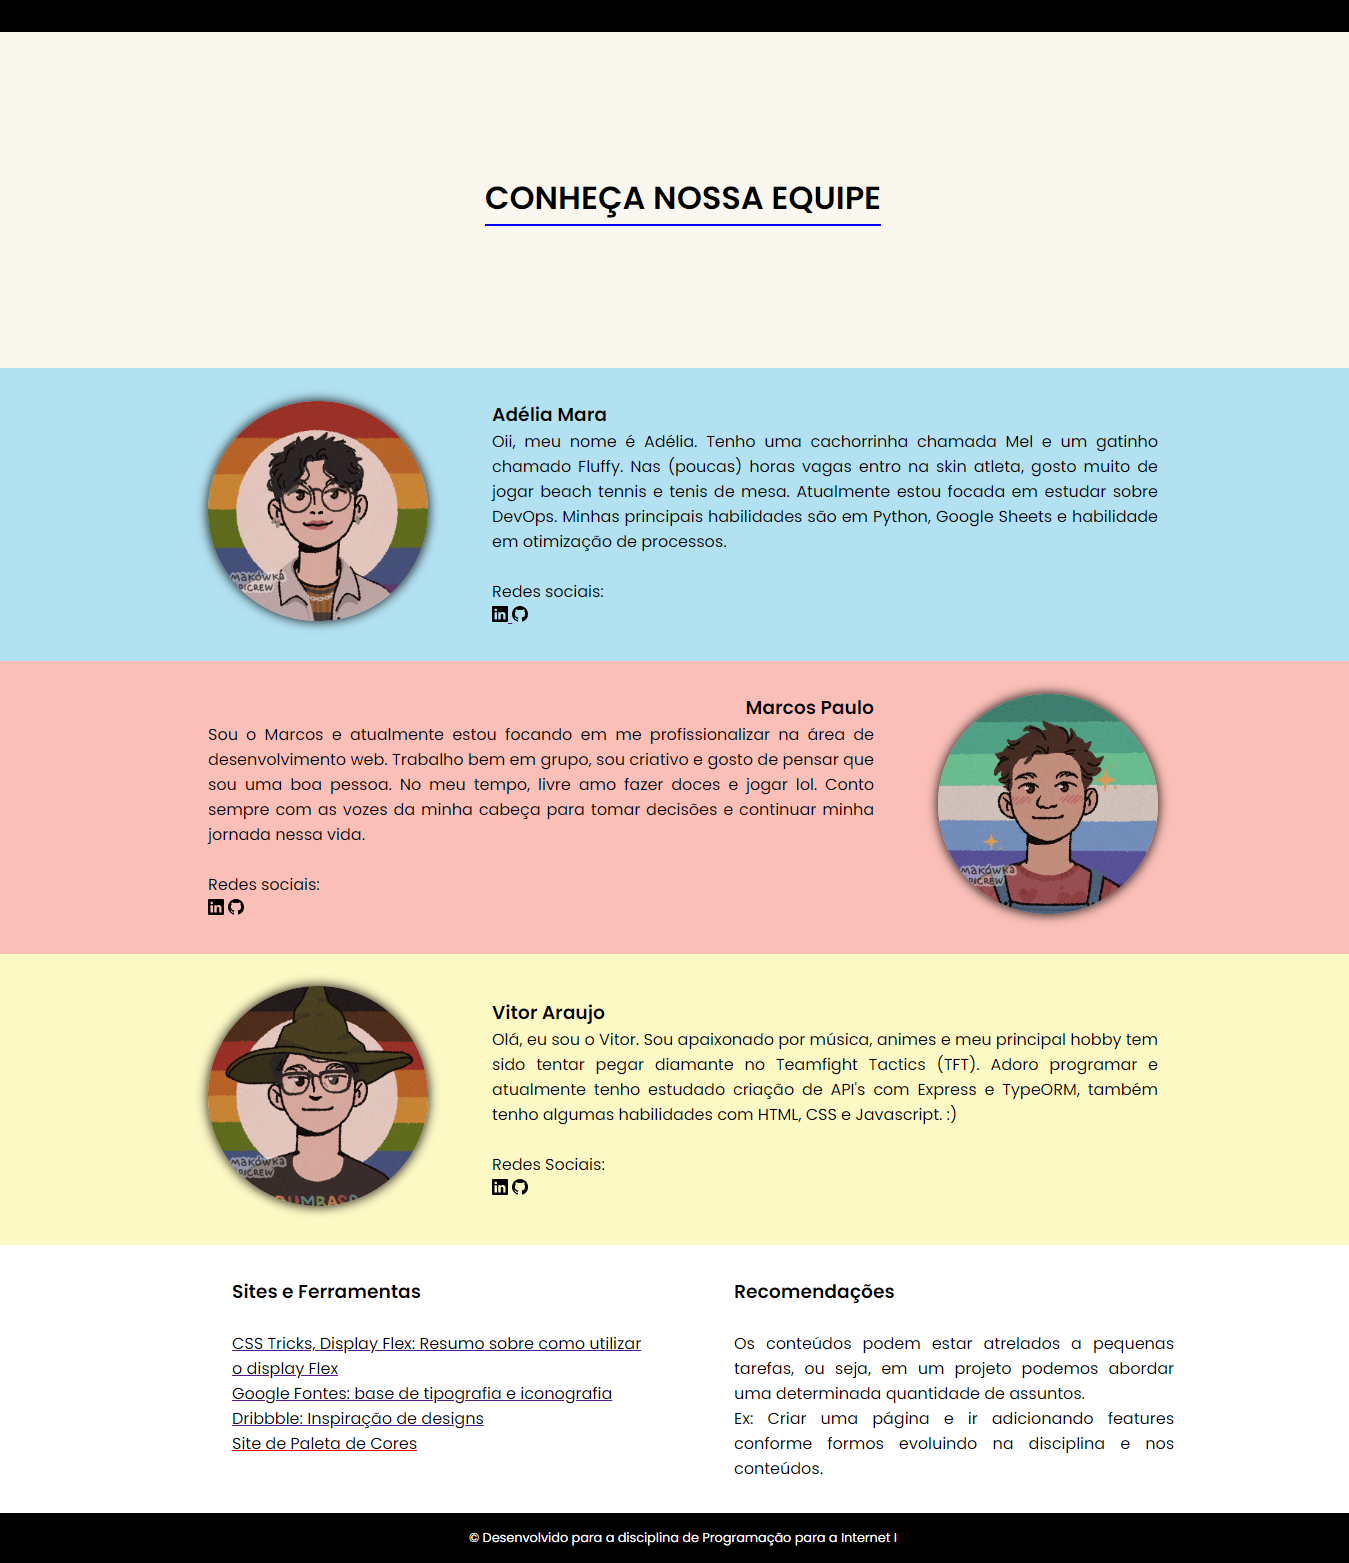
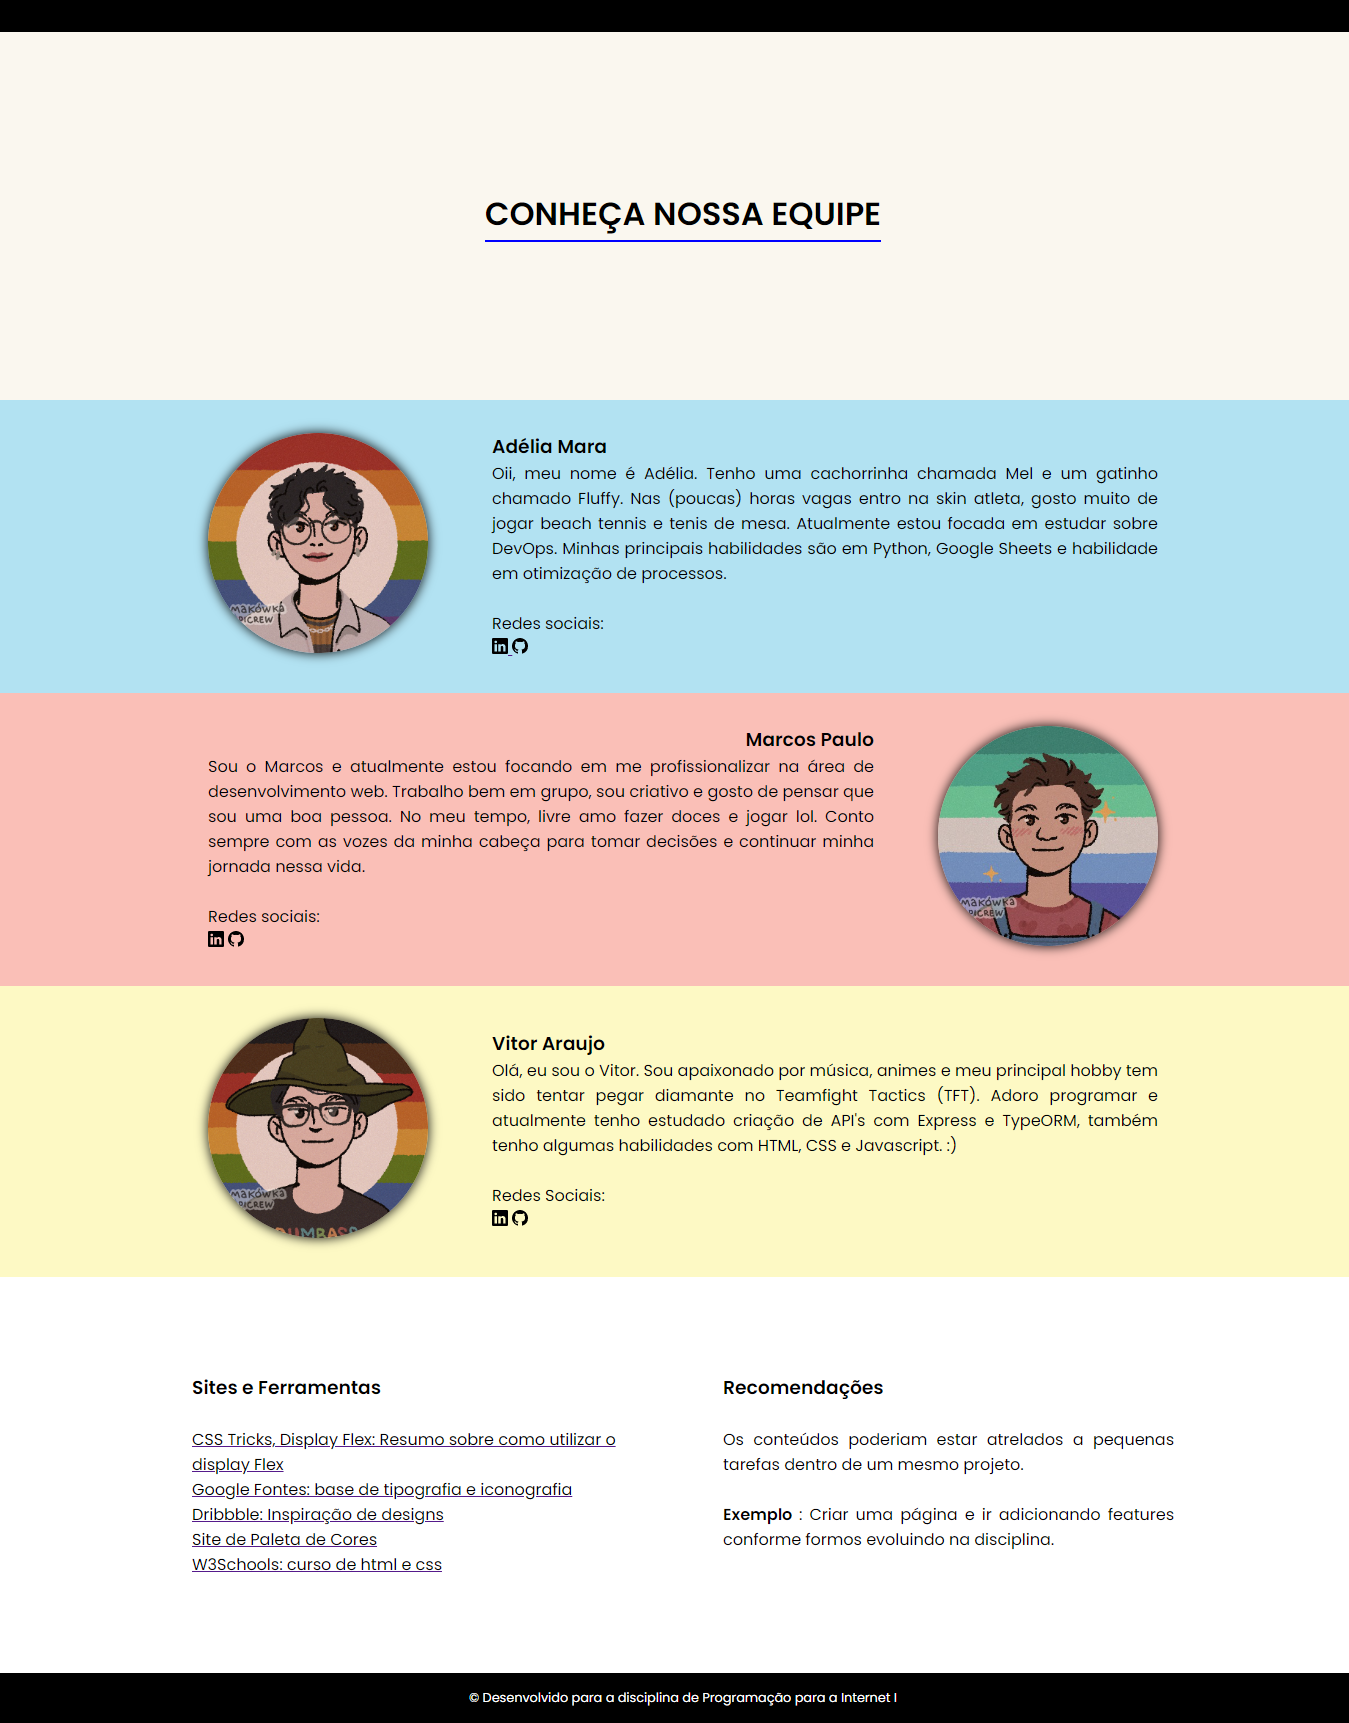
att

Changed region(s): [[0.0, 0.215, 1.0, 1.0], [0.3425, 0.0921, 0.6538, 0.1536]]

diff --git a/index.html b/index.html
@@ -32,7 +32,7 @@
                 <div id="adelia-img" class="adeliar apresentacao-individual row padding">
                     <div>
                         <div>
-                            <img id="adelia" src="./assets/images/WhatsApp Image 2023-02-08 at 21.35.00.jpeg" alt="">
+                            <img id="adelia" src="./assets/images/adelia-desenho.jpeg" alt="">
                         </div>
                     </div>
 
@@ -62,7 +62,7 @@
 
                     <div>
                         <div>
-                            <img id="marcos" src="./assets/images/317007774_1065445031525087_3766872975051679921_n.jpg" alt="">
+                            <img id="marcos" src="./assets/images/marcos-desenho.jpg" alt="">
                         </div>
                     </div>
                 </div>
@@ -70,7 +70,7 @@
                 <div id="vitor-img" class="vitorr apresentacao-individual row padding">
                     <div class=>
                         <div class=>
-                            <img id="vitor" src="./assets/images/download20230203205623.png" alt="">
+                            <img id="vitor" src="./assets/images/vitor-desenho.png" alt="">
                         </div>
                     </div>
 
@@ -96,13 +96,16 @@
                     <a href="https://fonts.google.com/about"><li>Google Fontes: base de tipografia e iconografia</li></a>
                     <a href="https://dribbble.com/"><li>Dribbble: Inspiração de designs</li></a>
                     <a href="https://paletadecolores.online/"><li>Site de Paleta de Cores</li></a>
+                    <a href="https://www.w3schools.com/"><li>W3Schools: curso de html e css</li></a>
+
                 </ul>
 
                 <div class="recomendacoes">
                     <h3>Recomendações</h3>
                 </br>
-                    <p>Os conteúdos podem estar atrelados a pequenas tarefas, ou seja, em um projeto podemos abordar uma determinada quantidade de assuntos.</p>
-                    <p>Ex: Criar uma página e ir adicionando features conforme formos evoluindo na disciplina e nos conteúdos.</p>
+                <p>Os conteúdos poderiam estar atrelados a pequenas tarefas dentro de um mesmo projeto.</p>
+                    <br>
+                    <p><b>Exemplo </b>: Criar uma página e ir adicionando features conforme formos evoluindo na disciplina.</p>
                 </div>
             </div>
         </section>

diff --git a/assets/css/ferramentas.css b/assets/css/ferramentas.css
@@ -14,10 +14,14 @@
     list-style-type:none;
     color: black;
     text-decoration: none;
+    margin: 0;
+    padding: 0;
 }
 
 .ferramentas .ferramentas-list ul{
     width: 100%;
+    list-style-type: none;
+    margin: 0;
 }
 
 .ferramentas .ferramentas-list .recomendacoes{
